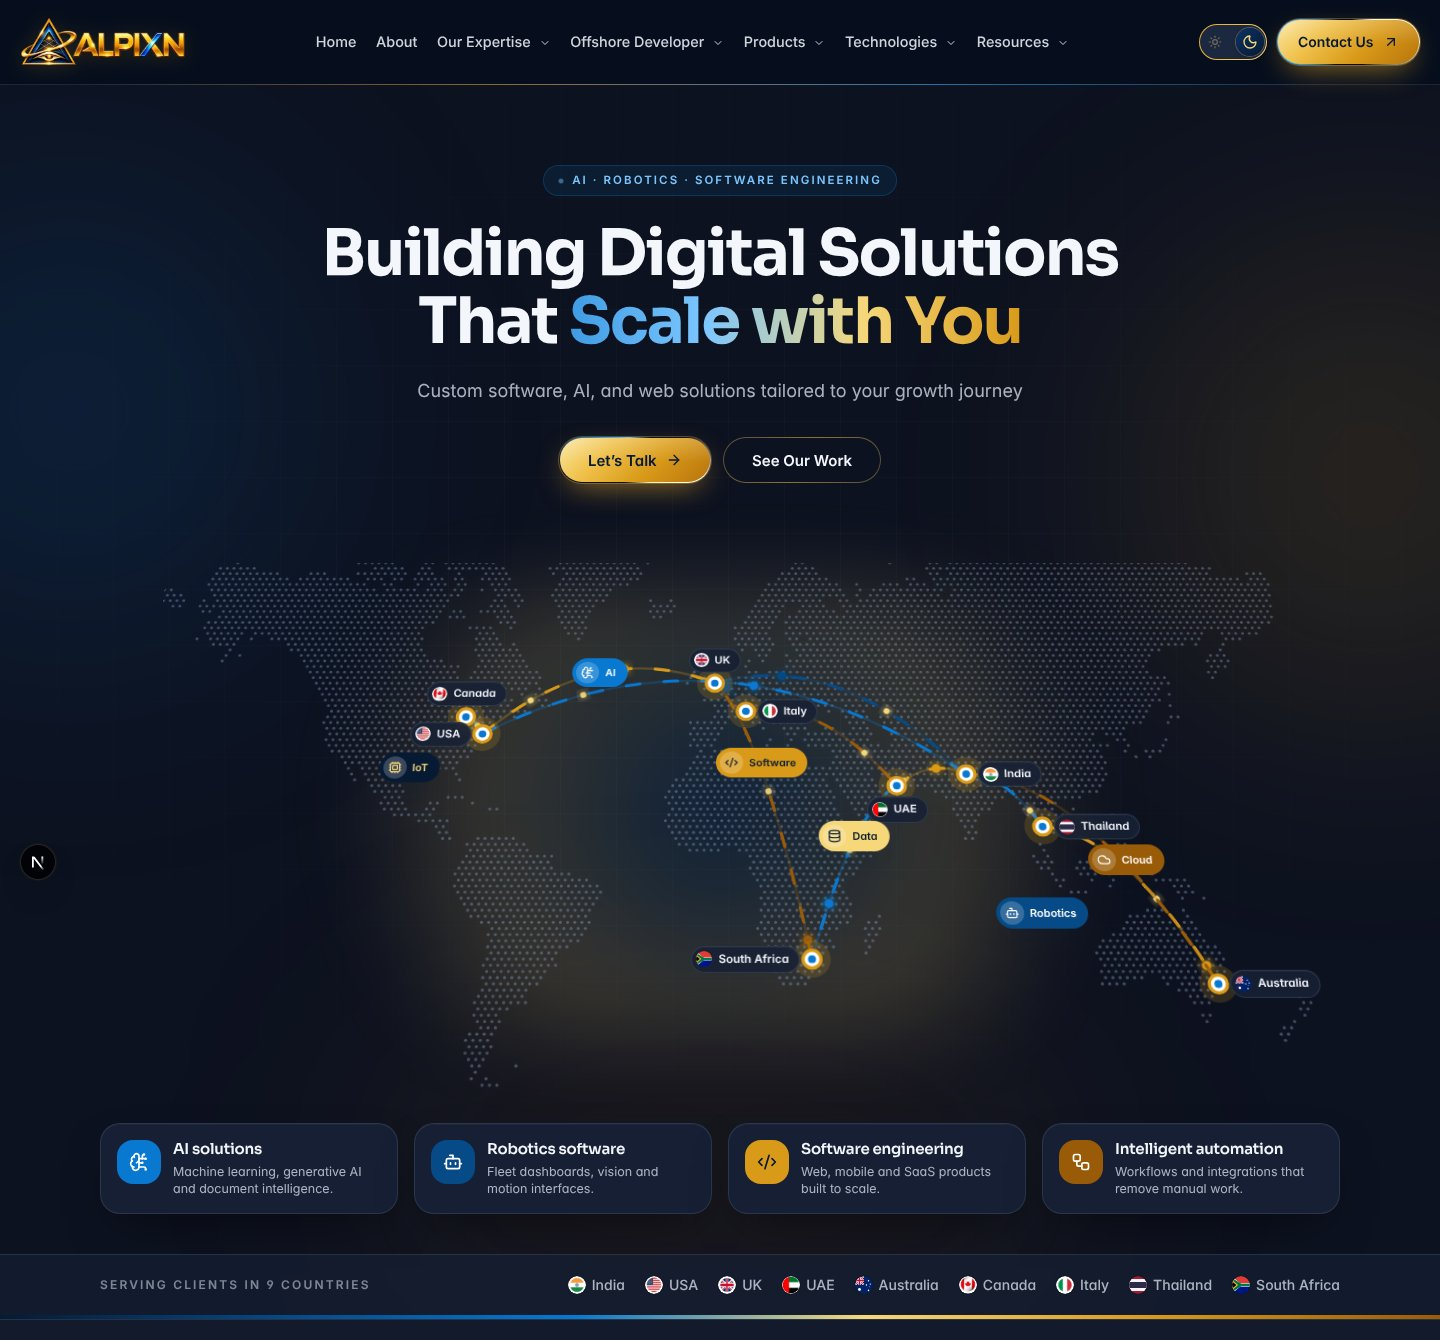
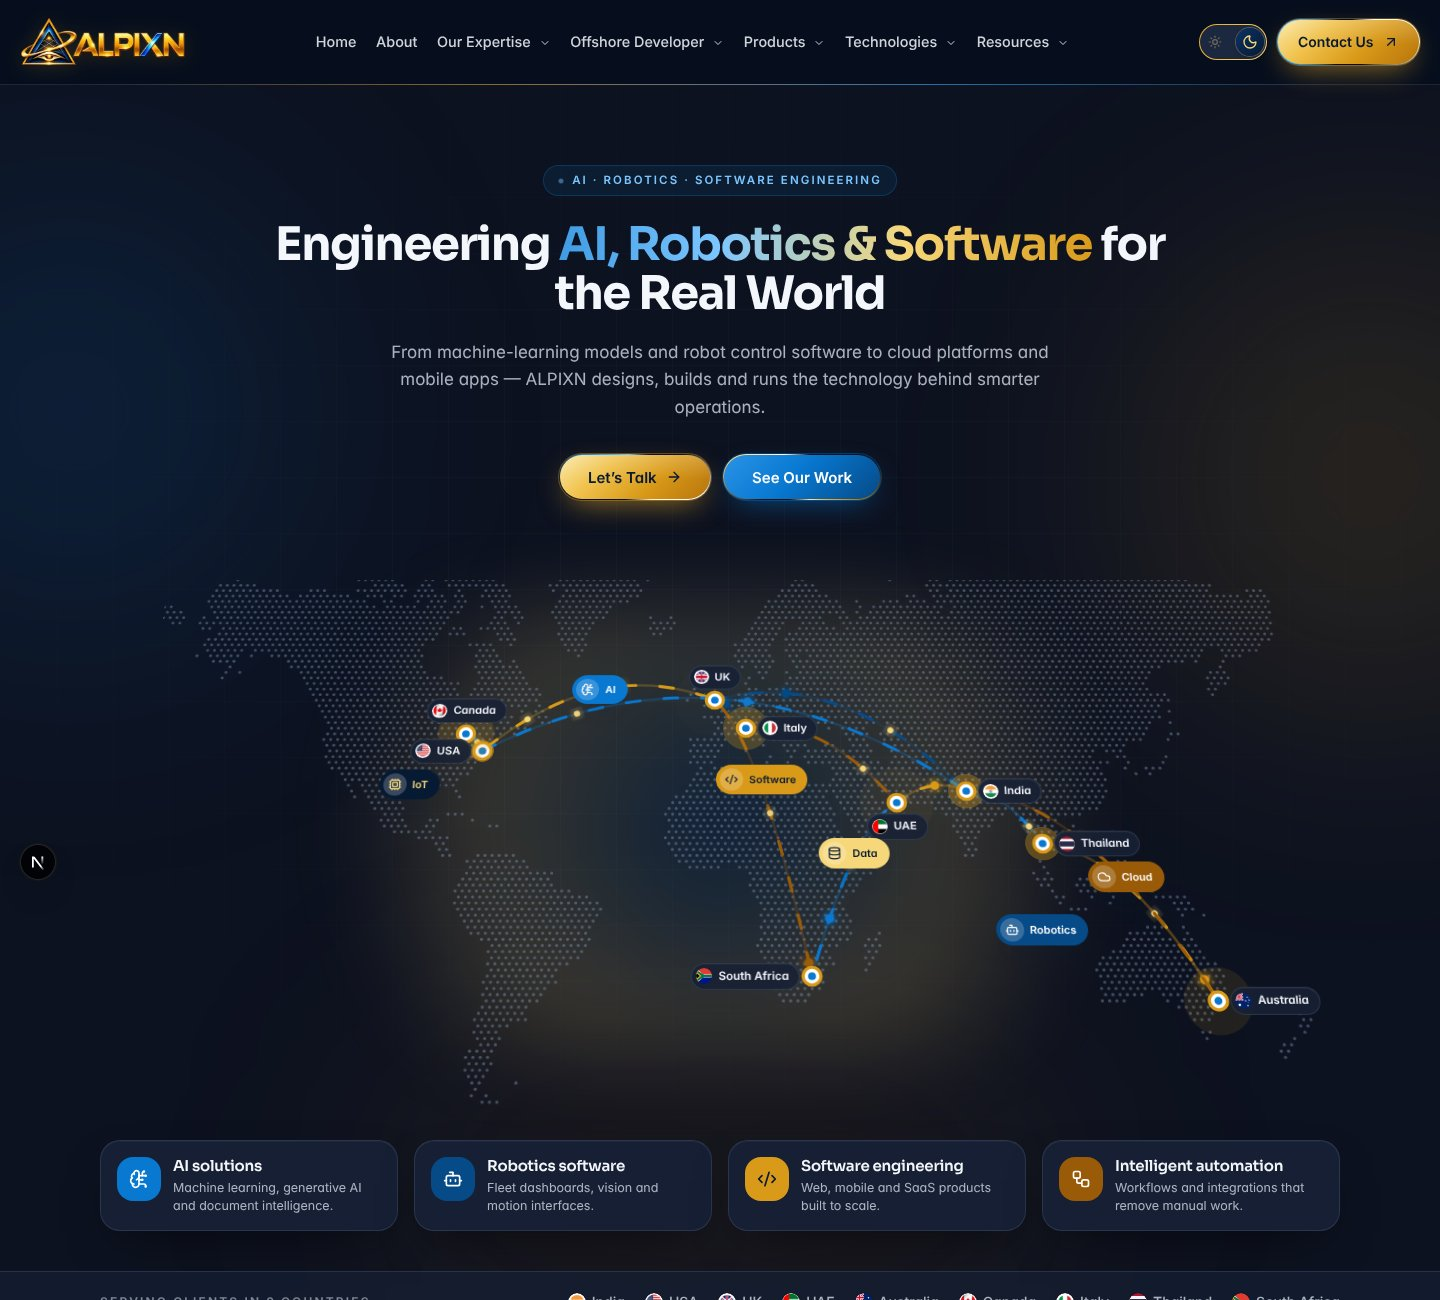
Hero copy, blue secondary buttons, smaller headings site-wide
- New engineering-focused hero headline and description (AI, robotics, software)
- Secondary buttons are now electric blue with an animated gold/white border
- Reduced page-hero, section and display heading sizes across the site

Claude-Session: https://claude.ai/code/session_01H12J3DzAnzVLA9j2hPFuqi

diff --git a/components/home/HomeV4.tsx b/components/home/HomeV4.tsx
@@ -31,7 +31,7 @@ function Heading({ id, kicker, tone, title, accent, center, children }: { id: st
   return (
     <div className={center ? "mx-auto max-w-2xl text-center" : "max-w-2xl"}>
       <Kicker tone={tone}>{kicker}</Kicker>
-      <h2 id={id} className="mt-4 font-display text-[clamp(1.75rem,3vw,2.6rem)] font-bold leading-[1.12] tracking-[-0.025em] text-fg">
+      <h2 id={id} className="mt-4 font-display text-[clamp(1.5rem,2.3vw,2.05rem)] font-bold leading-[1.12] tracking-[-0.025em] text-fg">
         {title} {accent ? <span className="text-brand-spectrum">{accent}</span> : null}
       </h2>
       {children ? <p className="mt-4 text-base leading-relaxed text-fg-muted">{children}</p> : null}
@@ -55,6 +55,11 @@ const MARKETS: [string, string][] = [
 /* Hero                                                                */
 /* ------------------------------------------------------------------ */
 
+const LEGACY_TITLES = new Set(["building digital solutions that scale with you"]);
+const LEGACY_DESCRIPTIONS = new Set(["custom software, ai, and web solutions tailored to your growth journey"]);
+const HERO_DESCRIPTION =
+  "From machine-learning models and robot control software to cloud platforms and mobile apps — ALPIXN designs, builds and runs the technology behind smarter operations.";
+
 const PILLARS = [
   { icon: BrainCircuit, title: "AI solutions", text: "Machine learning, generative AI and document intelligence.", color: "#0878d1", ink: "#ffffff" },
   { icon: Bot, title: "Robotics software", text: "Fleet dashboards, vision and motion interfaces.", color: "#064a87", ink: "#ffffff" },
@@ -74,10 +79,13 @@ export function HeroV4({
   secondary: { label: string; href: string };
   fallbackImage?: string;
 }) {
+  // The old CMS default read like a marketing agency; use the engineering headline unless admin set a custom one.
+  const useDefault = !title.trim() || LEGACY_TITLES.has(title.trim().toLowerCase());
   const words = title.trim().split(/\s+/);
   const split = Math.max(1, words.length - 3);
   const lead = words.slice(0, split).join(" ");
   const tail = words.slice(split).join(" ");
+  const copy = LEGACY_DESCRIPTIONS.has(description.trim().toLowerCase()) || !description.trim() ? HERO_DESCRIPTION : description;
 
   return (
     <section aria-labelledby="hero-title" className="relative overflow-hidden bg-canvas">
@@ -93,10 +101,18 @@ export function HeroV4({
         {/* Centered message */}
         <div className="mx-auto max-w-4xl text-center">
           <Kicker tone="blue">AI · Robotics · Software Engineering</Kicker>
-          <h1 id="hero-title" className="mt-6 font-display text-[clamp(2.2rem,4.8vw,4rem)] font-bold leading-[1.06] tracking-[-0.03em] text-fg">
-            {lead} <span className="text-brand-spectrum">{tail}</span>
+          <h1 id="hero-title" className="mt-6 font-display text-[clamp(1.85rem,3.3vw,2.9rem)] font-bold leading-[1.06] tracking-[-0.03em] text-fg">
+            {useDefault ? (
+              <>
+                Engineering <span className="text-brand-spectrum">AI, Robotics &amp; Software</span> for the Real World
+              </>
+            ) : (
+              <>
+                {lead} <span className="text-brand-spectrum">{tail}</span>
+              </>
+            )}
           </h1>
-          <p className="mx-auto mt-5 max-w-2xl text-lg leading-relaxed text-fg-muted">{description}</p>
+          <p className="mx-auto mt-5 max-w-2xl text-[17px] leading-relaxed text-fg-muted">{copy}</p>
           <div className="mt-8 flex flex-col justify-center gap-3 sm:flex-row">
             <Link href={primary.href} className="btn-brand !px-7 !py-3.5 text-[15px]">
               {primary.label} <ArrowRight aria-hidden className="btn-arrow h-4 w-4" />
@@ -256,7 +272,7 @@ export function MarketsV4() {
           <div aria-hidden className="absolute -bottom-20 -left-10 h-56 w-56 rounded-full bg-[#d99a19]/30 blur-[80px]" />
           <div className="relative">
             <Kicker tone="light">Global delivery</Kicker>
-            <h2 id="markets-title" className="mt-4 font-display text-[clamp(1.75rem,3vw,2.4rem)] font-bold leading-[1.12] tracking-[-0.025em]">
+            <h2 id="markets-title" className="mt-4 font-display text-[clamp(1.5rem,2.3vw,2rem)] font-bold leading-[1.12] tracking-[-0.025em]">
               Built for teams across <span className="text-[#f6d77a]">nine markets.</span>
             </h2>
             <p className="mt-4 text-[15px] leading-relaxed text-white/75">Local currencies, languages, tax rules and time zones are part of the brief from day one.</p>
@@ -272,7 +288,7 @@ export function MarketsV4() {
         </div>
         <div className="rounded-[32px] border border-line bg-surface p-8 shadow-[var(--shadow-card)] sm:p-10 lg:col-span-7">
           <Kicker>How we work with you</Kicker>
-          <h2 className="mt-4 font-display text-[clamp(1.6rem,2.6vw,2.2rem)] font-bold leading-[1.15] tracking-[-0.025em] text-fg">
+          <h2 className="mt-4 font-display text-[clamp(1.4rem,2vw,1.85rem)] font-bold leading-[1.15] tracking-[-0.025em] text-fg">
             Straightforward, <span className="text-brand-spectrum">from the first call.</span>
           </h2>
           <ul className="mt-8 grid gap-4 sm:grid-cols-2">
@@ -330,7 +346,7 @@ export function CtaV4() {
         <div aria-hidden className="absolute -bottom-24 -left-16 h-72 w-72 rounded-full bg-[#9a5b08]/45 blur-[90px]" />
         <div className="relative mx-auto max-w-2xl">
           <Kicker tone="light">Start a project</Kicker>
-          <h2 id="cta-title" className="mt-5 font-display text-[clamp(1.9rem,3.6vw,3rem)] font-bold leading-[1.1] tracking-[-0.03em]">
+          <h2 id="cta-title" className="mt-5 font-display text-[clamp(1.7rem,2.8vw,2.4rem)] font-bold leading-[1.1] tracking-[-0.03em]">
             Let&apos;s build <span className="text-gold-grad">what&apos;s next.</span>
           </h2>
           <p className="mx-auto mt-4 max-w-xl text-white/80">Tell us about your idea, product or process. We reply with honest recommendations and a sensible first step.</p>
@@ -338,7 +354,7 @@ export function CtaV4() {
             <Link href="/contact-us" className="btn-brand !px-7 !py-3.5 text-[15px]">
               Request a consultation <ArrowRight aria-hidden className="btn-arrow h-4 w-4" />
             </Link>
-            <Link href="/our-expertise" className="inline-flex items-center justify-center gap-2 rounded-full border border-white/30 px-7 py-3.5 text-[15px] font-semibold text-white transition-colors hover:bg-white/10">
+            <Link href="/our-expertise" className="btn-ghost-brand !px-7 !py-3.5 text-[15px]">
               Explore our services
             </Link>
           </div>

diff --git a/app/globals.css b/app/globals.css
@@ -389,18 +389,38 @@ html.theme-ready section {
   }
 
   .btn-ghost-brand {
-    color: var(--fg);
+    /* Electric-blue secondary CTA with a travelling gold/white light on the border */
+    color: #ffffff;
     background:
-      linear-gradient(var(--canvas), var(--canvas)) padding-box,
-      linear-gradient(120deg, var(--line-gold), color-mix(in srgb, var(--tech) 55%, transparent), var(--line-gold)) border-box;
+      linear-gradient(135deg, #2a93e6 0%, #0878d1 45%, #064a87 100%) padding-box,
+      conic-gradient(
+          from var(--border-angle),
+          transparent 0deg,
+          #f6d77a 40deg,
+          #ffffff 80deg,
+          transparent 140deg,
+          transparent 200deg,
+          #d99a19 240deg,
+          #fbe7a1 280deg,
+          transparent 330deg
+        )
+        border-box;
     border: 1.5px solid transparent;
+    animation: border-spin 4.5s linear infinite;
+    animation-delay: -2.2s;
+    box-shadow:
+      0 0 0 1px rgba(8, 120, 209, 0.35),
+      0 10px 30px -12px rgba(8, 120, 209, 0.75);
   }
   .btn-ghost-brand:hover {
     transform: translateY(-2px);
-    background:
-      linear-gradient(var(--surface), var(--surface)) padding-box,
-      linear-gradient(120deg, var(--gold), var(--tech), var(--gold-soft)) border-box;
-    box-shadow: 0 10px 30px -14px color-mix(in srgb, var(--gold) 70%, transparent);
+    box-shadow:
+      0 0 0 1px rgba(8, 120, 209, 0.5),
+      0 16px 40px -10px rgba(8, 120, 209, 0.85),
+      0 0 30px -6px rgba(217, 154, 25, 0.45);
+  }
+  .btn-ghost-brand:active {
+    transform: translateY(0) scale(0.98);
   }
 
   .btn-subtle {
@@ -1287,14 +1307,14 @@ html.theme-ready section {
   font-weight: 700;
   letter-spacing: -0.045em;
   line-height: 0.95;
-  font-size: clamp(2.3rem, 5.4vw, 4.6rem);
+  font-size: clamp(2rem, 4vw, 3.2rem);
 }
 .display-lg {
   font-family: var(--font-display);
   font-weight: 700;
   letter-spacing: -0.035em;
   line-height: 1.02;
-  font-size: clamp(1.9rem, 3.4vw, 3rem);
+  font-size: clamp(1.6rem, 2.6vw, 2.2rem);
 }
 .text-gold-grad {
   background: linear-gradient(100deg, #b8740c 0%, #e3a52a 35%, #f6d77a 55%, #d99a19 75%, #9a5b08 100%);
@@ -1414,3 +1434,4 @@ html.theme-ready section {
     display: none;
   }
 }
+

diff --git a/app/about/page.tsx b/app/about/page.tsx
@@ -103,7 +103,7 @@ export default function AboutPage() {
           <div className="mt-10 grid gap-12 lg:grid-cols-12 lg:items-center">
             <div className="lg:col-span-7">
               <span className="eyebrow">About ALPIXN</span>
-              <h1 className="heading-gradient mt-4 text-4xl font-semibold !leading-[1.08] sm:text-5xl lg:text-[3.4rem]">An AI, robotics and software engineering company</h1>
+              <h1 className="heading-gradient mt-4 text-4xl font-semibold !leading-[1.08] sm:text-[2.4rem] lg:text-[2.6rem]">An AI, robotics and software engineering company</h1>
               <p className="mt-6 max-w-2xl text-base leading-relaxed text-fg-muted sm:text-lg">
                 ALPIXN designs and builds software that makes businesses work better: applications customers use every day, internal systems teams depend on, and AI and automation that remove repetitive work. We bring product thinking, engineering discipline and practical AI experience into one team.
               </p>

diff --git a/app/resources/portfolio/page.tsx b/app/resources/portfolio/page.tsx
@@ -35,7 +35,7 @@ export default async function PortfolioPage({ searchParams }: Props) {
           <div className="mt-8 grid gap-10 lg:grid-cols-12 lg:items-end">
             <div className="lg:col-span-7">
               <span className="eyebrow">Portfolio</span>
-              <h1 className="heading-gradient mt-4 text-4xl font-semibold !leading-[1.08] sm:text-5xl">Working software you can click through</h1>
+              <h1 className="heading-gradient mt-4 text-4xl font-semibold !leading-[1.08] sm:text-[2.4rem]">Working software you can click through</h1>
               <p className="mt-5 max-w-2xl text-base leading-relaxed text-fg-muted sm:text-lg">
                 Every project below is a functioning interface built by ALPIXN — booking engines, SaaS products, operational dashboards, mobile apps, AI tools and robotics software — designed around real workflows in the markets we serve. Screenshots are captured from the live demos, not mock-ups.
               </p>

diff --git a/components/sections/Hero.tsx b/components/sections/Hero.tsx
@@ -7,7 +7,7 @@ import HeroVisual from "@/components/hero/HeroVisual";
  * the 3D robotics scene is a progressive enhancement layered on top.
  */
 const Hero = ({
-  title = "Building Digital Solutions That Scale with You",
+  title = "Engineering AI, Robotics & Software for the Real World",
   description = "Custom software, AI, and web solutions tailored to your growth journey",
   primaryAction = { label: "Let’s Talk", href: "/contact-us" },
   secondaryAction = { label: "See Our Work", href: "/resources/portfolio" },
@@ -53,7 +53,7 @@ const Hero = ({
 
           <h1
             id="hero-title"
-            className="heading-gradient mt-6 max-w-[640px] text-[2.35rem] font-semibold !leading-[1.06] sm:text-5xl lg:text-[3.6rem] xl:text-[4.1rem]"
+            className="heading-gradient mt-6 max-w-[640px] text-[2.35rem] font-semibold !leading-[1.06] sm:text-[2.4rem] lg:text-[2.6rem] xl:text-[2.9rem]"
           >
             {title}
           </h1>

diff --git a/app/resources/blogs/page.tsx b/app/resources/blogs/page.tsx
@@ -56,7 +56,7 @@ const BlogsPage = async ({ searchParams }: BlogsPageProps) => {
           <div className="mt-8 grid gap-10 lg:grid-cols-12 lg:items-end">
             <div className="lg:col-span-5">
               <span className="eyebrow">ALPIXN Insights</span>
-              <h1 className="heading-gradient mt-4 text-4xl font-semibold !leading-[1.08] sm:text-5xl">Field notes on AI, robotics and software engineering</h1>
+              <h1 className="heading-gradient mt-4 text-4xl font-semibold !leading-[1.08] sm:text-[2.4rem]">Field notes on AI, robotics and software engineering</h1>
               <p className="mt-5 max-w-xl text-base leading-relaxed text-fg-muted sm:text-lg">
                 Practical explanations of how modern software, AI systems and automation are planned, built and operated — with the trade-offs, limitations and implementation details that matter in real projects.
               </p>

diff --git a/app/not-found.tsx b/app/not-found.tsx
@@ -14,7 +14,7 @@ export default function NotFound() {
       <div className="mx-auto flex max-w-xl flex-col items-center text-center">
         <Image src="/brand/alpixn-emblem.webp" alt="" width={96} height={96} className="animate-float drop-shadow-[0_12px_30px_rgba(217,154,25,0.35)]" />
         <p className="eyebrow mt-8">Error 404</p>
-        <h1 className="heading-gradient mt-4 text-4xl font-semibold sm:text-5xl">This page could not be found</h1>
+        <h1 className="heading-gradient mt-4 text-4xl font-semibold sm:text-[2.4rem]">This page could not be found</h1>
         <p className="mt-4 text-base leading-relaxed text-fg-muted">The link may be broken or the page may have moved. Let&apos;s get you back on track.</p>
         <div className="mt-8 flex flex-col gap-3 sm:flex-row">
           <Link href="/" className="btn-brand">

diff --git a/lib/home-about-seed.ts b/lib/home-about-seed.ts
@@ -2,8 +2,8 @@ import type { AboutSettingsRecord, HomeSettingsRecord } from "@/lib/content-type
 
 export const defaultHomeSettings: HomeSettingsRecord = {
   key: "home-settings",
-  heroTitle: "Building Digital Solutions That Scale with You",
-  heroDescription: "Custom software, AI, and web solutions tailored to your growth journey",
+  heroTitle: "Engineering AI, Robotics & Software for the Real World",
+  heroDescription: "From machine-learning models and robot control software to cloud platforms and mobile apps — ALPIXN designs, builds and runs the technology behind smarter operations.",
   heroPrimaryAction: { label: "Let’s Talk", href: "/contact-us" },
   heroSecondaryAction: { label: "See Our Work", href: "/resources/portfolio" },
   heroImageData: "/images/hero.png",

diff --git a/components/ui/SectionHeading.tsx b/components/ui/SectionHeading.tsx
@@ -22,7 +22,7 @@ export default function SectionHeading({
   return (
     <div className={`flex flex-col gap-4 ${centered ? "items-start sm:items-center sm:text-center" : "items-start text-left"} ${className}`}>
       {eyebrow ? <span className="eyebrow">{eyebrow}</span> : null}
-      <h2 id={id} className="heading-gradient max-w-[860px] text-[1.85rem] font-semibold !leading-[1.15] sm:text-4xl lg:text-[2.75rem]">
+      <h2 id={id} className="heading-gradient max-w-[860px] text-[1.6rem] font-semibold !leading-[1.18] sm:text-[1.9rem] lg:text-[2.15rem]">
         {title}
       </h2>
       {subtitle ? <p className={`max-w-[760px] text-base leading-relaxed text-fg-muted sm:text-lg ${centered ? "sm:mx-auto" : ""}`}>{subtitle}</p> : null}

diff --git a/components/sections/interns-alumni/IntensAlumniHeroSection.tsx b/components/sections/interns-alumni/IntensAlumniHeroSection.tsx
@@ -69,7 +69,7 @@ const IntensAlumniHeroSection = ({ title = "Our Internship Candidates", descript
 
       {/* Container */}
       <div className="relative w-full max-w-[1295px] mx-auto flex flex-col gap-[25px] items-center mt-10 sm:mt-32 lg:mt-28.75 z-10 px-4 xl:px-0">
-         <h1 className="font-extrabold text-2xl sm:text-3xl md:text-4xl lg:text-5xl text-left sm:text-center text-gradient leading-tight">{title}</h1>
+         <h1 className="font-extrabold text-2xl sm:text-3xl md:text-4xl lg:text-[2.4rem] text-left sm:text-center text-gradient leading-tight">{title}</h1>
          <p className="text-sm md:text-base font-normal leading-relaxed text-left sm:text-center text-fg/90">
            {description}
          </p>

diff --git a/components/sections/our-team/OurTeamHeroSection.tsx b/components/sections/our-team/OurTeamHeroSection.tsx
@@ -23,7 +23,7 @@ const OurTeamHeroSection = ({ title = "The Innovators, Creators, and Dreamers", 
 
       {/* Container */}
       <div className="relative w-full max-w-197.75 mx-auto flex flex-col gap-[25px] items-center mt-10 sm:mt-32 lg:mt-[82px] z-10 px-4 xl:px-0">
-        <h1 className="font-extrabold text-2xl sm:text-3xl md:text-4xl lg:text-5xl heading-gradient-white leading-tight text-left sm:text-center">
+        <h1 className="font-extrabold text-2xl sm:text-3xl md:text-4xl lg:text-[2.4rem] heading-gradient-white leading-tight text-left sm:text-center">
           {title}
         </h1>
         <p className="text-sm md:text-base font-normal leading-relaxed text-fg/90 text-center text-left sm:text-center">

diff --git a/components/sections/careers/CareersHeroSection.tsx b/components/sections/careers/CareersHeroSection.tsx
@@ -110,7 +110,7 @@ const CareersHeroSection = ({ title = "Innovate With Us", description = "We crea
       {/* Content */}
       <div className="container max-w-[735px] relative z-10">
         <div className="flex flex-col gap-[30px] mt-[34px] lg:mt-[72px]">
-          <h1 className="heading-gradient-white text-2xl sm:text-3xl md:text-4xl lg:text-5xl font-extrabold leading-tight tracking-tight text-left sm:text-center [text-shadow:0_4px_26px_rgba(0,0,0,0.55)]">
+          <h1 className="heading-gradient-white text-2xl sm:text-3xl md:text-4xl lg:text-[2.4rem] font-extrabold leading-tight tracking-tight text-left sm:text-center [text-shadow:0_4px_26px_rgba(0,0,0,0.55)]">
             {title}
           </h1>
 
